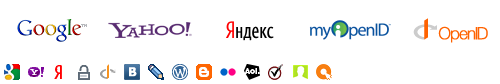
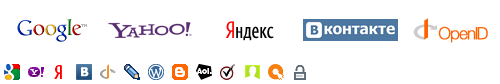
swap vkontakte and myopenid, fix auth.php

Changed region(s): [[0.24, 0.7619, 0.66, 0.9524], [0.6, 0.2143, 0.81, 0.5], [0.15, 0.7619, 0.21, 0.9524]]

diff --git a/lib/openid-mapbb.js b/lib/openid-mapbb.js
@@ -18,10 +18,9 @@ var providers_large = {
 		name : 'Яндекс',
 		url : 'http://openid.yandex.ru'
 	},
-	myopenid : {
-		name : 'MyOpenID',
-		label : 'Enter your MyOpenID username.',
-		url : 'http://{username}.myopenid.com/'
+	vkontakte : {
+		name : 'VKontakte',
+		url : 'http://vkontakteid.ru'
 	},
 	openid : {
 		name : 'OpenID',
@@ -31,10 +30,6 @@ var providers_large = {
 };
 
 var providers_small = {
-	vkontakte : {
-		name : 'VKontakte',
-		url : 'http://vkontakteid.ru'
-	},
 	livejournal : {
 		name : 'LiveJournal',
 		label : 'Enter your Livejournal username.',
@@ -49,11 +44,6 @@ var providers_small = {
 		name : 'Blogger',
 		label : 'Your Blogger account',
 		url : 'http://{username}.blogspot.com/'
-	},
-	flickr: {
-		name: 'Flickr',        
-		label: 'Enter your Flickr username.',
-		url: 'http://flickr.com/{username}/'
 	},
 	aol : {
 		name : 'AOL',
@@ -75,6 +65,11 @@ var providers_small = {
 		label : 'Enter your ClickPass username',
 		url : 'http://clickpass.com/public/{username}'
 	},
+	myopenid : {
+		name : 'MyOpenID',
+		label : 'Enter your MyOpenID username.',
+		url : 'http://{username}.myopenid.com/'
+	}
 };
 
 openid.locale = 'en';

diff --git a/lib/openid-no-framework.js b/lib/openid-no-framework.js
@@ -12,7 +12,7 @@ var openid = {
 	demo : false,
 	demo_text : null,
 
-	img_path : '/lib/images/',
+	img_path : 'lib/images/',
 	locale : null, // is set in openid-<locale>.js
 	sprite : null, // usually equals to locale, is set in
 	// openid-<locale>.js

diff --git a/auth.php b/auth.php
@@ -2,6 +2,7 @@
 require('openid.php');
 
 $host = 'http'.(!empty($_SERVER['HTTPS']) && $_SERVER['HTTPS'] !== 'off' ? 's' : '').'://'.$_SERVER['HTTP_HOST'];
+$phpself = $host.rtrim(dirname($_SERVER['SCRIPT_NAME']), '/\\').'/auth.php';
 $close = false;
 try {
     $openid = new LightOpenID($host);
@@ -26,7 +27,7 @@ try {
 
 <body>
     <h1>Login to MapBBCode Share with OpenID</h1>
-    <form action="/auth.php" method="post" id="openid_form">
+	<form action="<?php echo $phpself ?>" method="post" id="openid_form">
         <input id="openid_form_submit" type="submit" style="display: none;" />
         <div id="openid_choice">
             <p>Please click your account provider:</p>

diff --git a/page.php b/page.php
@@ -359,7 +359,7 @@ function addLogin(ui) {
             showHistoryWindow(true);
         } else {
             window.storedBBCode = ui.getBBCode();
-            window.open('/auth.php', 'mapbbauth', 'dialog,resizable,width=700,height=400');
+			window.open('<?php echo $base_path ?>/auth.php', 'mapbbauth', 'dialog,resizable,width=700,height=400');
         }
     });
     ui.map.addControl(login);

diff --git a/CHANGELOG.md b/CHANGELOG.md
@@ -2,6 +2,12 @@
 
 Versions are numbered `N.M-S`, where `N.M` is the MapBBCode library version, and `S` is the Share build, independent of the library version. There are no "stable" versions and releases: the latest version is always the one to install.
 
+### 1.2-12, 2013-12-28
+
+* Support for nginx with php-fpm (by [@aaronpk](https://github.com/aaronpk)). [#20](https://github.com/MapBBCode/share.mapbbcode.org/pull/20)
+* Swap MyOpenID for Vkontakte OpenID provider. [#21](https://github.com/MapBBCode/share.mapbbcode.org/issues/21)
+* Fix paths to `auth.php` for cases when Share is not in a root directory.
+
 ### 1.2-11, 2013-12-27
 
 * `?direct` parameter does not add attachment headers (useful for HTML export).
